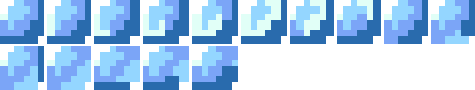
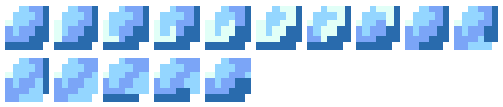
mejora de algunas animaciones y posiciones de los objetos

diff --git a/VJ-2D/Key.cpp b/VJ-2D/Key.cpp
@@ -5,10 +5,10 @@
 using namespace std;
 
 
-void Key::init(const glm::ivec2& tileMapPos, ShaderProgram& shaderProgram)
+void Key::init(const glm::ivec2& tileMapPos, glm::ivec2 itemPos, ShaderProgram& shaderProgram)
 {
 	spritesheet.loadFromFile("images/key.png", TEXTURE_PIXEL_FORMAT_RGBA);
-	size = glm::ivec2(20, 20);
+	size = glm::ivec2(16, 16);
 	sprite = Sprite::createSprite(size, glm::vec2(1.f / 7.f, 1.f), &spritesheet, &shaderProgram);
 	sprite->setNumberAnimations(1);
 
@@ -24,7 +24,7 @@ void Key::init(const glm::ivec2& tileMapPos, ShaderProgram& shaderProgram)
 
 	sprite->changeAnimation(FLOATING, true);
 
-	position = glm::vec2(float(40), float(18*20));
+	position = itemPos;
 	sprite->setPosition(glm::vec2(position.x + tileMapPos.x, position.y + tileMapPos.y));
 }
 

diff --git a/VJ-2D/Key.h b/VJ-2D/Key.h
@@ -9,7 +9,7 @@ class Key
 public:
 	~Key();
 
-	void init(const glm::ivec2& tileMapPos, ShaderProgram& shaderProgram);
+	void init(const glm::ivec2& tileMapPos, glm::ivec2 itemPos, ShaderProgram& shaderProgram);
 	void update(int deltaTime);
 	void render();
 
